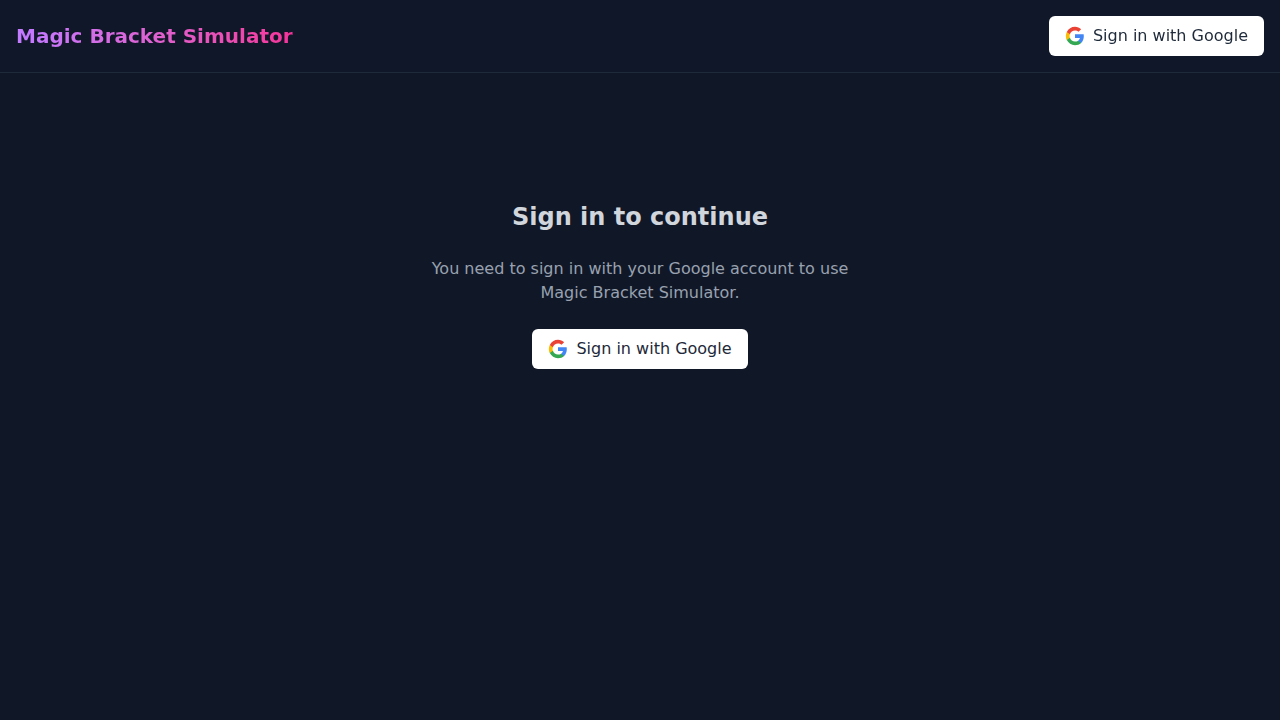
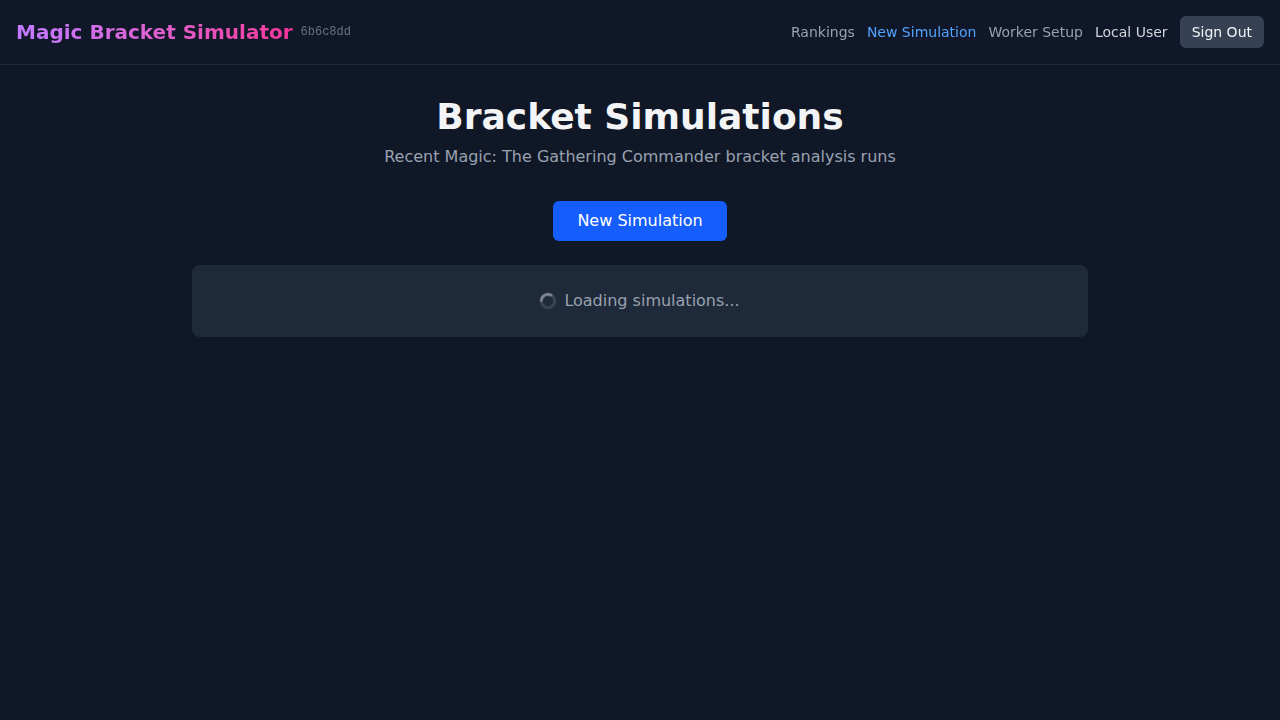
docs: update hero screenshot and link flutter worker docs
Updated the hero screenshot to reflect the current UI instead of the outdated login screen. Also added links to the new flutter worker documentation files in the README's Documentation Map to ensure they are discoverable.

diff --git a/README.md b/README.md
@@ -59,6 +59,9 @@ cd worker_flutter && flutter run -d macos    # or: -d windows
 *   [Stale Sweeper](docs/STALE_SWEEPER.md)
 *   [Sweeper Alerting](docs/SWEEPER_ALERTING.md)
 *   [Sweeper Alert Policy](docs/sweeper-alert-policy.yaml)
+*   [Flutter Worker App Check Setup](worker_flutter/docs/APP_CHECK_SETUP.md)
+*   [Flutter Worker Auth Setup](worker_flutter/docs/AUTH_SETUP.md)
+*   [Flutter Worker Sentry Setup](worker_flutter/docs/sentry-setup.md)
 
 ## Contributing
 
